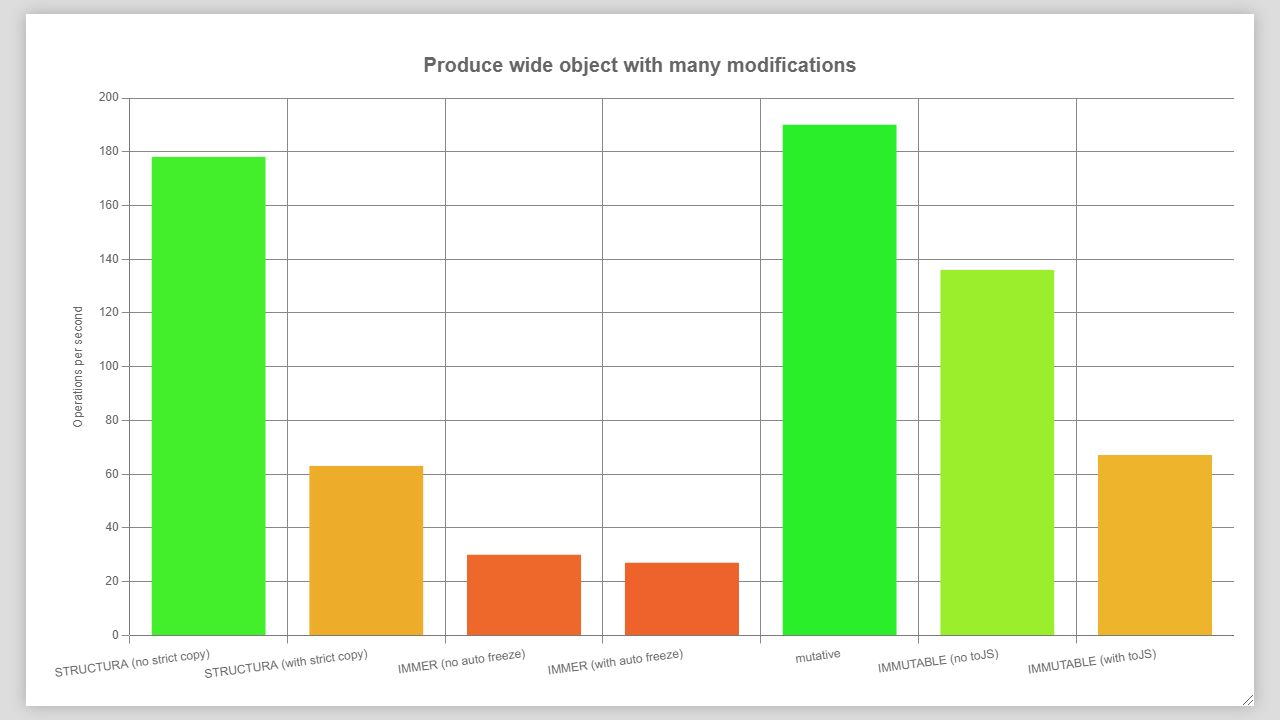
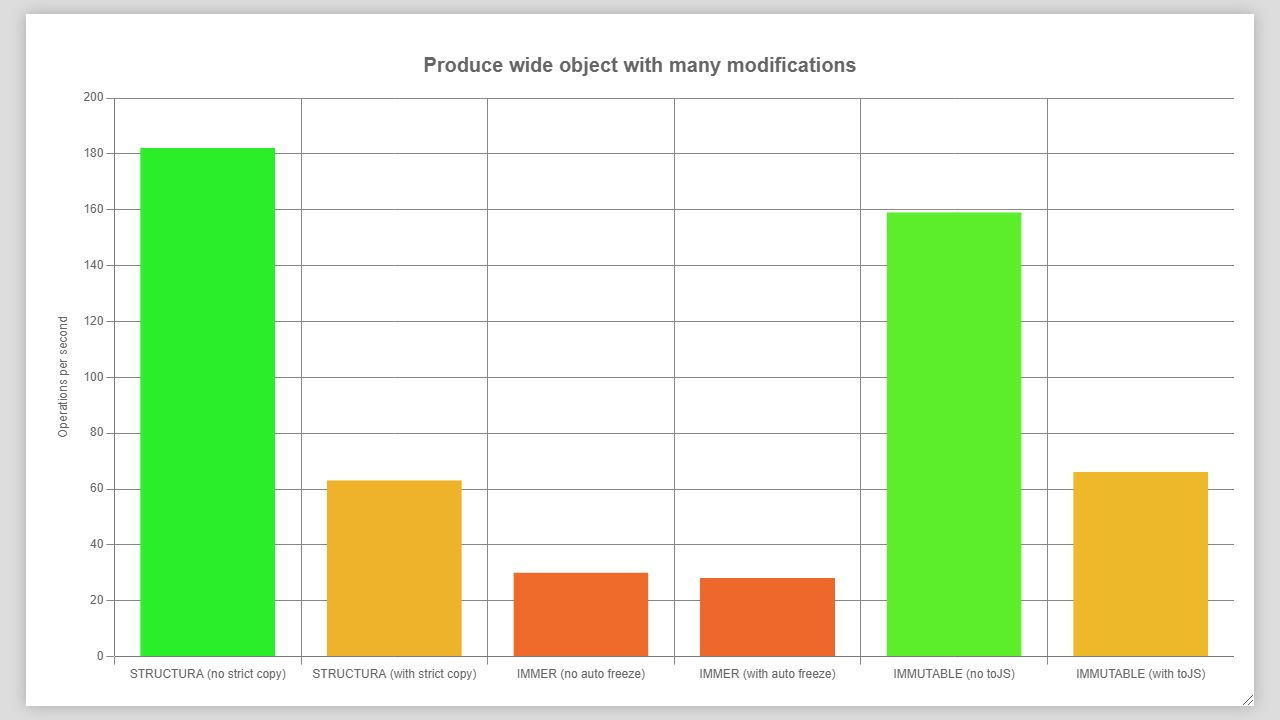
update benchmarks

diff --git a/docs/public/benchmark/wide_many.chart.html b/docs/public/benchmark/wide_many.chart.html
@@ -28,7 +28,7 @@
   </head>
   <body>
     <div class="container">
-      <canvas id="chart1674242560817" width="16" height="9"></canvas>
+      <canvas id="chart1674500977646" width="16" height="9"></canvas>
     </div>
     <script>
       const format = (num) => {
@@ -51,18 +51,18 @@
           chunked.map((chunk) => chunk.join('')).join(' ') + fractionStr
         )
       }
-      const ctx1674242560817 = document
-        .getElementById('chart1674242560817')
+      const ctx1674500977646 = document
+        .getElementById('chart1674500977646')
         .getContext('2d')
-      const chart1674242560817 = new Chart(ctx1674242560817, {
+      const chart1674500977646 = new Chart(ctx1674500977646, {
         type: 'bar',
         data: {
-          labels: ["STRUCTURA (no strict copy)","STRUCTURA (with strict copy)","IMMER (no auto freeze)","IMMER (with auto freeze)","mutative","IMMUTABLE (no toJS)","IMMUTABLE (with toJS)"],
+          labels: ["STRUCTURA (no strict copy)","STRUCTURA (with strict copy)","IMMER (no auto freeze)","IMMER (with auto freeze)","IMMUTABLE (no toJS)","IMMUTABLE (with toJS)"],
           datasets: [
             {
-              data: [178,63,30,27,190,136,67],
-              backgroundColor: ["hsl(112.41600000000001, 85%, 55%)","hsl(39.791999999999994, 85%, 55%)","hsl(18.948000000000008, 85%, 55%)","hsl(17.051999999999992, 85%, 55%)","hsl(120, 85%, 55%)","hsl(85.896, 85%, 55%)","hsl(42.312000000000005, 85%, 55%)"],
-              borderColor: ["hsl(112.41600000000001, 85%, 55%)","hsl(39.791999999999994, 85%, 55%)","hsl(18.948000000000008, 85%, 55%)","hsl(17.051999999999992, 85%, 55%)","hsl(120, 85%, 55%)","hsl(85.896, 85%, 55%)","hsl(42.312000000000005, 85%, 55%)"],
+              data: [182,63,30,28,159,66],
+              backgroundColor: ["hsl(120, 85%, 55%)","hsl(41.54400000000001, 85%, 55%)","hsl(19.776000000000003, 85%, 55%)","hsl(18.455999999999996, 85%, 55%)","hsl(104.83200000000001, 85%, 55%)","hsl(43.512, 85%, 55%)"],
+              borderColor: ["hsl(120, 85%, 55%)","hsl(41.54400000000001, 85%, 55%)","hsl(19.776000000000003, 85%, 55%)","hsl(18.455999999999996, 85%, 55%)","hsl(104.83200000000001, 85%, 55%)","hsl(43.512, 85%, 55%)"],
               borderWidth: 2,
             },
           ],

diff --git a/docs/public/benchmark/small_many.chart.html b/docs/public/benchmark/small_many.chart.html
@@ -28,7 +28,7 @@
   </head>
   <body>
     <div class="container">
-      <canvas id="chart1674242500563" width="16" height="9"></canvas>
+      <canvas id="chart1674500911582" width="16" height="9"></canvas>
     </div>
     <script>
       const format = (num) => {
@@ -51,18 +51,18 @@
           chunked.map((chunk) => chunk.join('')).join(' ') + fractionStr
         )
       }
-      const ctx1674242500563 = document
-        .getElementById('chart1674242500563')
+      const ctx1674500911582 = document
+        .getElementById('chart1674500911582')
         .getContext('2d')
-      const chart1674242500563 = new Chart(ctx1674242500563, {
+      const chart1674500911582 = new Chart(ctx1674500911582, {
         type: 'bar',
         data: {
-          labels: ["STRUCTURA","IMMER","mutative","IMMUTABLE"],
+          labels: ["STRUCTURA (no strict copy)","STRUCTURA (with strict copy)","IMMER (no auto freeze)","IMMER (with auto freeze)","IMMUTABLE (no toJS)","IMMUTABLE (with toJS)"],
           datasets: [
             {
-              data: [223310,106373,113068,526891],
-              backgroundColor: ["hsl(50.856, 85%, 55%)","hsl(24.227999999999994, 85%, 55%)","hsl(25.751999999999992, 85%, 55%)","hsl(120, 85%, 55%)"],
-              borderColor: ["hsl(50.856, 85%, 55%)","hsl(24.227999999999994, 85%, 55%)","hsl(25.751999999999992, 85%, 55%)","hsl(120, 85%, 55%)"],
+              data: [217162,160767,112527,108238,527133,512760],
+              backgroundColor: ["hsl(49.440000000000005, 85%, 55%)","hsl(36.6, 85%, 55%)","hsl(25.619999999999994, 85%, 55%)","hsl(24.636000000000003, 85%, 55%)","hsl(120, 85%, 55%)","hsl(116.724, 85%, 55%)"],
+              borderColor: ["hsl(49.440000000000005, 85%, 55%)","hsl(36.6, 85%, 55%)","hsl(25.619999999999994, 85%, 55%)","hsl(24.636000000000003, 85%, 55%)","hsl(120, 85%, 55%)","hsl(116.724, 85%, 55%)"],
               borderWidth: 2,
             },
           ],

diff --git a/docs/public/benchmark/wide_few.chart.html b/docs/public/benchmark/wide_few.chart.html
@@ -28,7 +28,7 @@
   </head>
   <body>
     <div class="container">
-      <canvas id="chart1674242522230" width="16" height="9"></canvas>
+      <canvas id="chart1674500944728" width="16" height="9"></canvas>
     </div>
     <script>
       const format = (num) => {
@@ -51,18 +51,18 @@
           chunked.map((chunk) => chunk.join('')).join(' ') + fractionStr
         )
       }
-      const ctx1674242522230 = document
-        .getElementById('chart1674242522230')
+      const ctx1674500944728 = document
+        .getElementById('chart1674500944728')
         .getContext('2d')
-      const chart1674242522230 = new Chart(ctx1674242522230, {
+      const chart1674500944728 = new Chart(ctx1674500944728, {
         type: 'bar',
         data: {
-          labels: ["STRUCTURA","IMMER","mutative","IMMUTABLE"],
+          labels: ["STRUCTURA (no strict copy)","STRUCTURA (with stict copy)","IMMER (no auto freeze)","IMMER (with auto freeze)","IMMUTABLE (no toJS)","IMMUTABLE (with toJS)"],
           datasets: [
             {
-              data: [187,37,189,146],
-              backgroundColor: ["hsl(118.728, 85%, 55%)","hsl(23.495999999999995, 85%, 55%)","hsl(120, 85%, 55%)","hsl(92.69999999999999, 85%, 55%)"],
-              borderColor: ["hsl(118.728, 85%, 55%)","hsl(23.495999999999995, 85%, 55%)","hsl(120, 85%, 55%)","hsl(92.69999999999999, 85%, 55%)"],
+              data: [188,63,38,27,154,65],
+              backgroundColor: ["hsl(120, 85%, 55%)","hsl(40.21200000000001, 85%, 55%)","hsl(24.251999999999995, 85%, 55%)","hsl(17.232, 85%, 55%)","hsl(98.29199999999999, 85%, 55%)","hsl(41.483999999999995, 85%, 55%)"],
+              borderColor: ["hsl(120, 85%, 55%)","hsl(40.21200000000001, 85%, 55%)","hsl(24.251999999999995, 85%, 55%)","hsl(17.232, 85%, 55%)","hsl(98.29199999999999, 85%, 55%)","hsl(41.483999999999995, 85%, 55%)"],
               borderWidth: 2,
             },
           ],

diff --git a/docs/public/benchmark/nested_many.chart.html b/docs/public/benchmark/nested_many.chart.html
@@ -28,7 +28,7 @@
   </head>
   <body>
     <div class="container">
-      <canvas id="chart1674242461799" width="16" height="9"></canvas>
+      <canvas id="chart1674500846136" width="16" height="9"></canvas>
     </div>
     <script>
       const format = (num) => {
@@ -51,18 +51,18 @@
           chunked.map((chunk) => chunk.join('')).join(' ') + fractionStr
         )
       }
-      const ctx1674242461799 = document
-        .getElementById('chart1674242461799')
+      const ctx1674500846136 = document
+        .getElementById('chart1674500846136')
         .getContext('2d')
-      const chart1674242461799 = new Chart(ctx1674242461799, {
+      const chart1674500846136 = new Chart(ctx1674500846136, {
         type: 'bar',
         data: {
-          labels: ["STRUCTURA (no strict copy)","STRUCTURA (with strict copy)","IMMER (no auto freeze)","mutative","IMMUTABLE (no toJS)"],
+          labels: ["STRUCTURA (no strict copy)","STRUCTURA (with strict copy)","IMMER (no auto freeze)","IMMUTABLE (no toJS)"],
           datasets: [
             {
-              data: [6369,4610,3322,6126,3491],
-              backgroundColor: ["hsl(120, 85%, 55%)","hsl(86.856, 85%, 55%)","hsl(62.59199999999999, 85%, 55%)","hsl(115.41600000000001, 85%, 55%)","hsl(65.772, 85%, 55%)"],
-              borderColor: ["hsl(120, 85%, 55%)","hsl(86.856, 85%, 55%)","hsl(62.59199999999999, 85%, 55%)","hsl(115.41600000000001, 85%, 55%)","hsl(65.772, 85%, 55%)"],
+              data: [6316,4331,3353,3402],
+              backgroundColor: ["hsl(120, 85%, 55%)","hsl(82.28399999999999, 85%, 55%)","hsl(63.708000000000006, 85%, 55%)","hsl(64.63199999999999, 85%, 55%)"],
+              borderColor: ["hsl(120, 85%, 55%)","hsl(82.28399999999999, 85%, 55%)","hsl(63.708000000000006, 85%, 55%)","hsl(64.63199999999999, 85%, 55%)"],
               borderWidth: 2,
             },
           ],

diff --git a/docs/public/benchmark/nested_few.chart.html b/docs/public/benchmark/nested_few.chart.html
@@ -28,7 +28,7 @@
   </head>
   <body>
     <div class="container">
-      <canvas id="chart1674242435007" width="16" height="9"></canvas>
+      <canvas id="chart1674500824738" width="16" height="9"></canvas>
     </div>
     <script>
       const format = (num) => {
@@ -51,18 +51,18 @@
           chunked.map((chunk) => chunk.join('')).join(' ') + fractionStr
         )
       }
-      const ctx1674242435007 = document
-        .getElementById('chart1674242435007')
+      const ctx1674500824738 = document
+        .getElementById('chart1674500824738')
         .getContext('2d')
-      const chart1674242435007 = new Chart(ctx1674242435007, {
+      const chart1674500824738 = new Chart(ctx1674500824738, {
         type: 'bar',
         data: {
-          labels: ["STRUCTURA (no strict copy)","STRUCTURA (with strict copy)","IMMER (no auto freeze)","mutative","IMMUTABLE (no toJS)"],
+          labels: ["STRUCTURA (no strict copy)","STRUCTURA (with strict copy)","IMMER (no auto freeze)","IMMUTABLE (no toJS)"],
           datasets: [
             {
-              data: [8980,8473,7785,8908,8565],
-              backgroundColor: ["hsl(120, 85%, 55%)","hsl(113.21999999999998, 85%, 55%)","hsl(104.028, 85%, 55%)","hsl(119.03999999999999, 85%, 55%)","hsl(114.456, 85%, 55%)"],
-              borderColor: ["hsl(120, 85%, 55%)","hsl(113.21999999999998, 85%, 55%)","hsl(104.028, 85%, 55%)","hsl(119.03999999999999, 85%, 55%)","hsl(114.456, 85%, 55%)"],
+              data: [8938,8352,7094,8152],
+              backgroundColor: ["hsl(120, 85%, 55%)","hsl(112.128, 85%, 55%)","hsl(95.24400000000001, 85%, 55%)","hsl(109.45200000000001, 85%, 55%)"],
+              borderColor: ["hsl(120, 85%, 55%)","hsl(112.128, 85%, 55%)","hsl(95.24400000000001, 85%, 55%)","hsl(109.45200000000001, 85%, 55%)"],
               borderWidth: 2,
             },
           ],

diff --git a/docs/public/benchmark/small_few.chart.html b/docs/public/benchmark/small_few.chart.html
@@ -28,7 +28,7 @@
   </head>
   <body>
     <div class="container">
-      <canvas id="chart1674242478358" width="16" height="9"></canvas>
+      <canvas id="chart1674500879005" width="16" height="9"></canvas>
     </div>
     <script>
       const format = (num) => {
@@ -51,18 +51,18 @@
           chunked.map((chunk) => chunk.join('')).join(' ') + fractionStr
         )
       }
-      const ctx1674242478358 = document
-        .getElementById('chart1674242478358')
+      const ctx1674500879005 = document
+        .getElementById('chart1674500879005')
         .getContext('2d')
-      const chart1674242478358 = new Chart(ctx1674242478358, {
+      const chart1674500879005 = new Chart(ctx1674500879005, {
         type: 'bar',
         data: {
-          labels: ["STRUCTURA","IMMER","IMMUTABLE"],
+          labels: ["STRUCTURA (no strict copy)","STRUCTURA (with strict copy)","IMMER (no auto freeze)","IMMER (with auto freeze)","IMMUTABLE (no toJS)","IMMUTABLE (with toJS)"],
           datasets: [
             {
-              data: [1201170,187540,1949934],
-              backgroundColor: ["hsl(73.92, 85%, 55%)","hsl(11.544000000000006, 85%, 55%)","hsl(120, 85%, 55%)"],
-              borderColor: ["hsl(73.92, 85%, 55%)","hsl(11.544000000000006, 85%, 55%)","hsl(120, 85%, 55%)"],
+              data: [1179869,432648,188285,173182,1959095,1764755],
+              backgroundColor: ["hsl(72.276, 85%, 55%)","hsl(26.496, 85%, 55%)","hsl(11.531999999999998, 85%, 55%)","hsl(10.608000000000004, 85%, 55%)","hsl(120, 85%, 55%)","hsl(108.09599999999999, 85%, 55%)"],
+              borderColor: ["hsl(72.276, 85%, 55%)","hsl(26.496, 85%, 55%)","hsl(11.531999999999998, 85%, 55%)","hsl(10.608000000000004, 85%, 55%)","hsl(120, 85%, 55%)","hsl(108.09599999999999, 85%, 55%)"],
               borderWidth: 2,
             },
           ],
